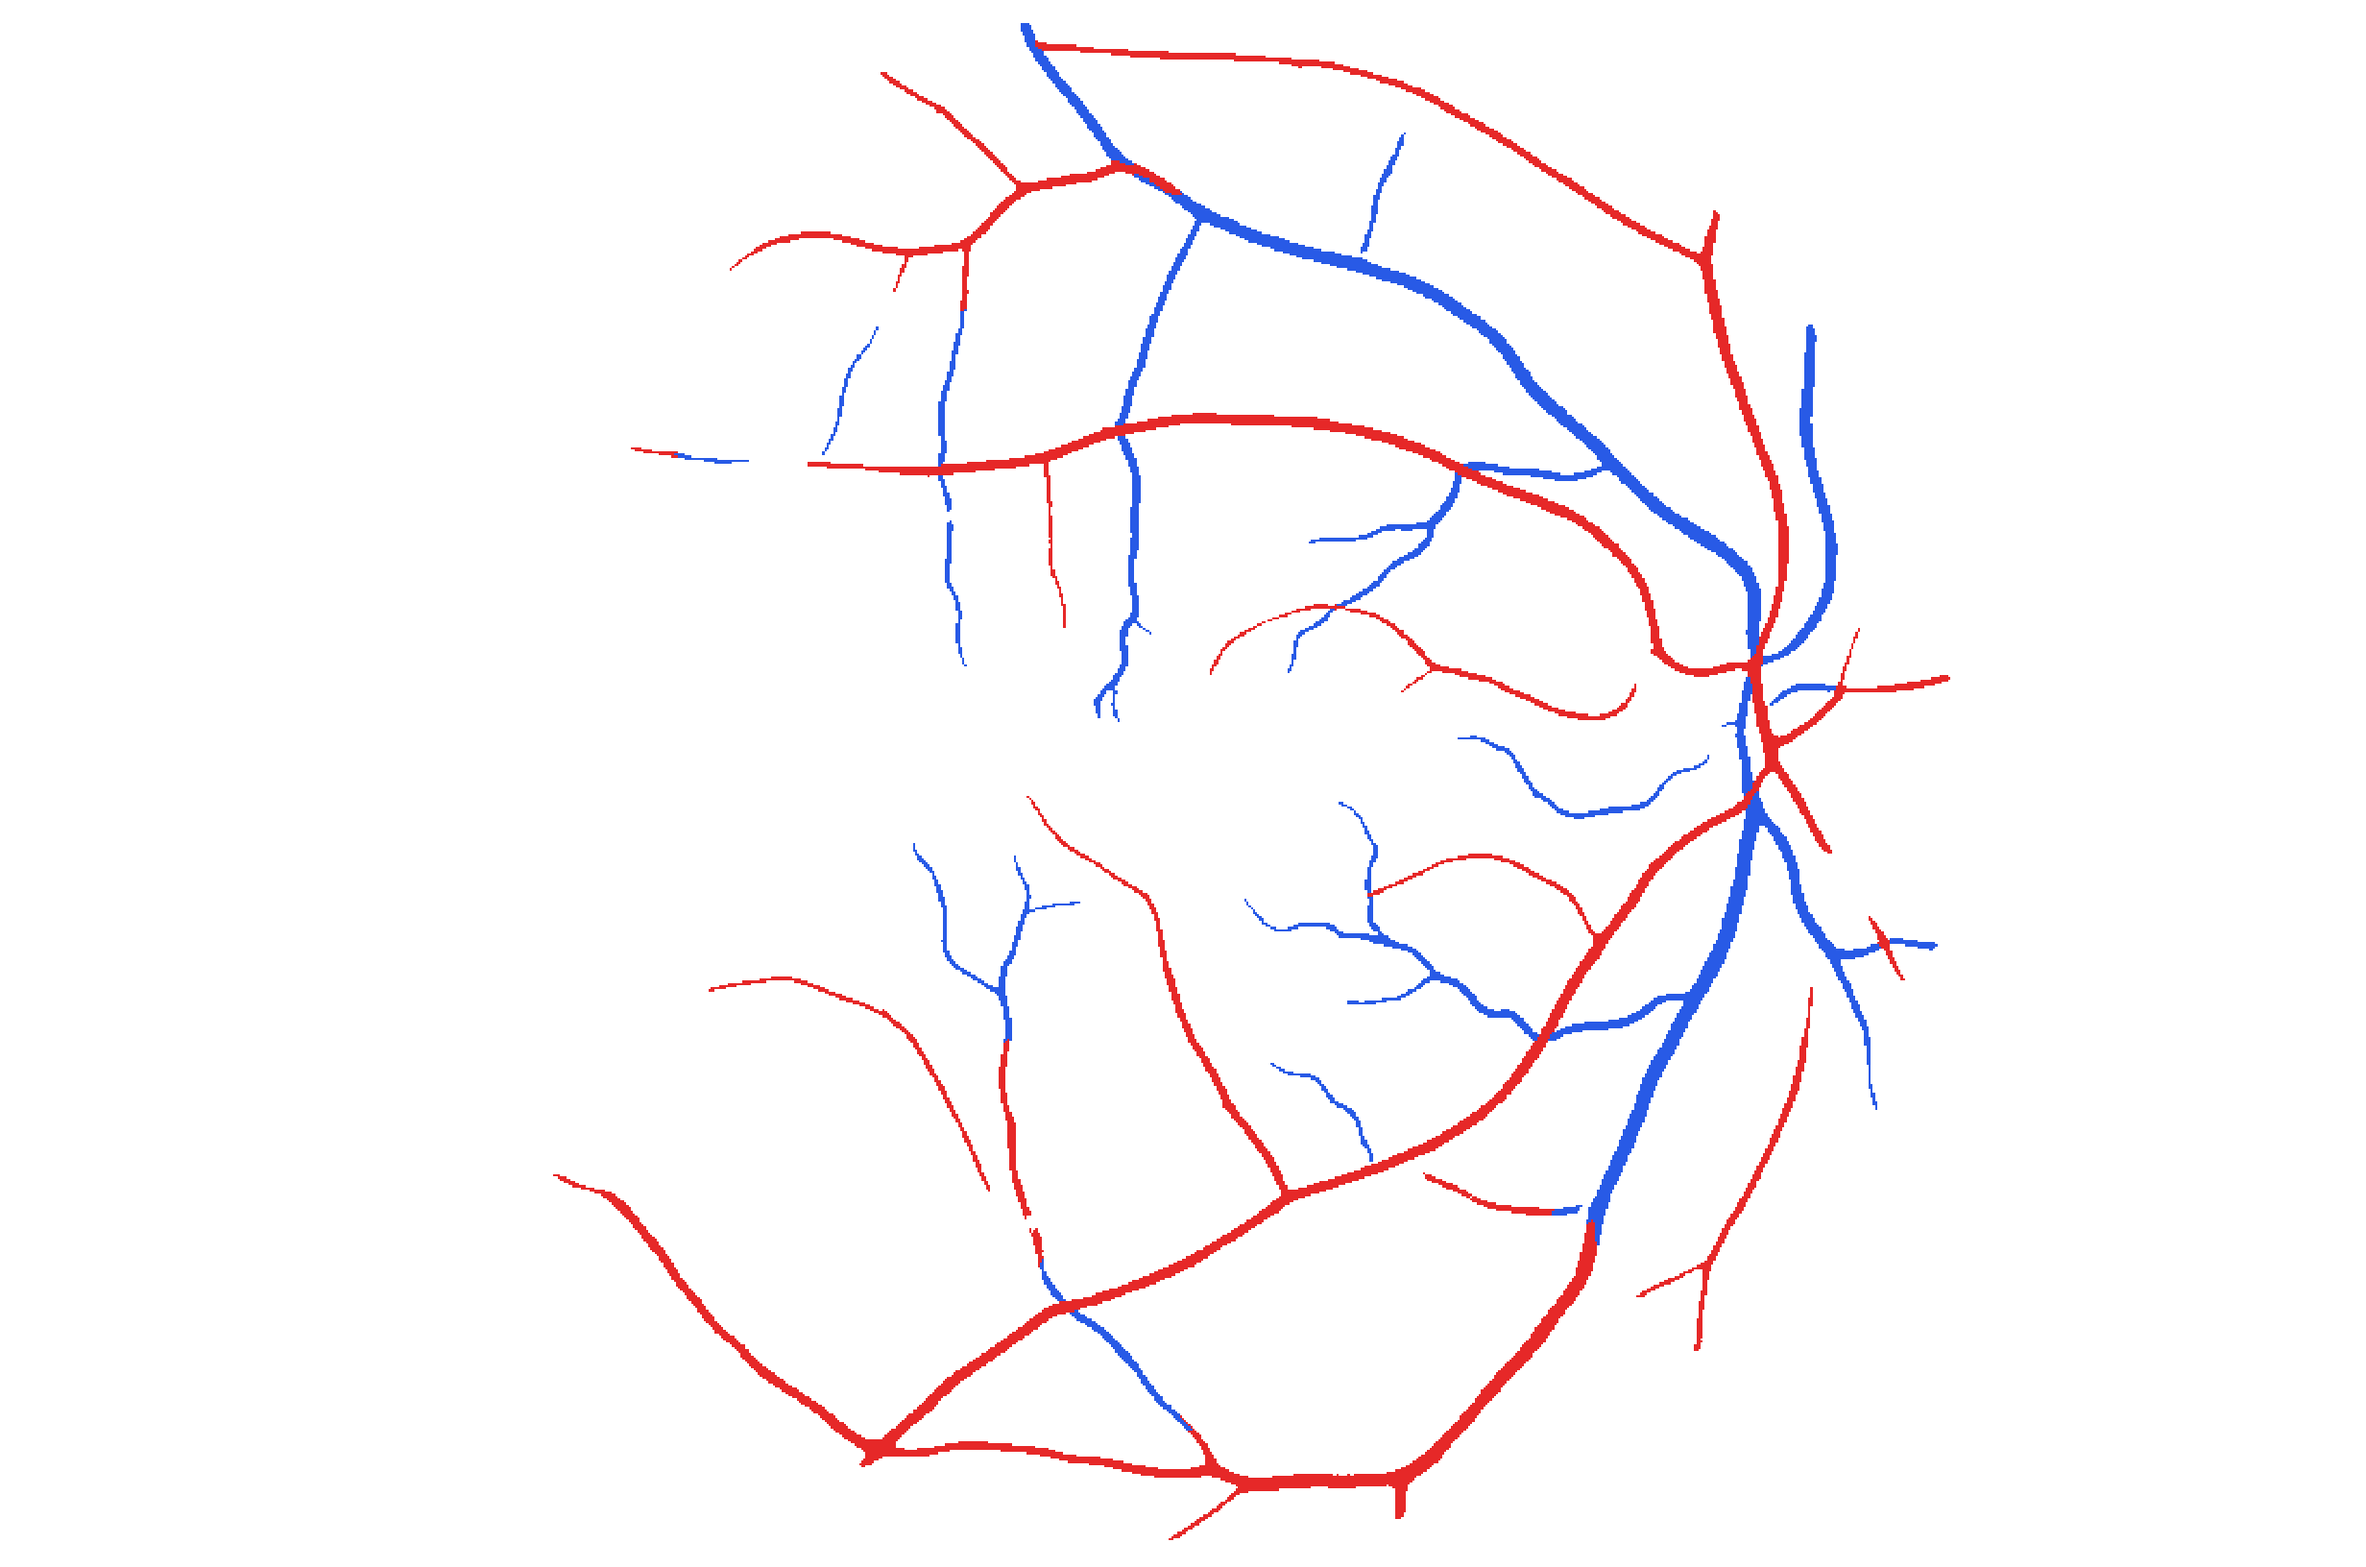
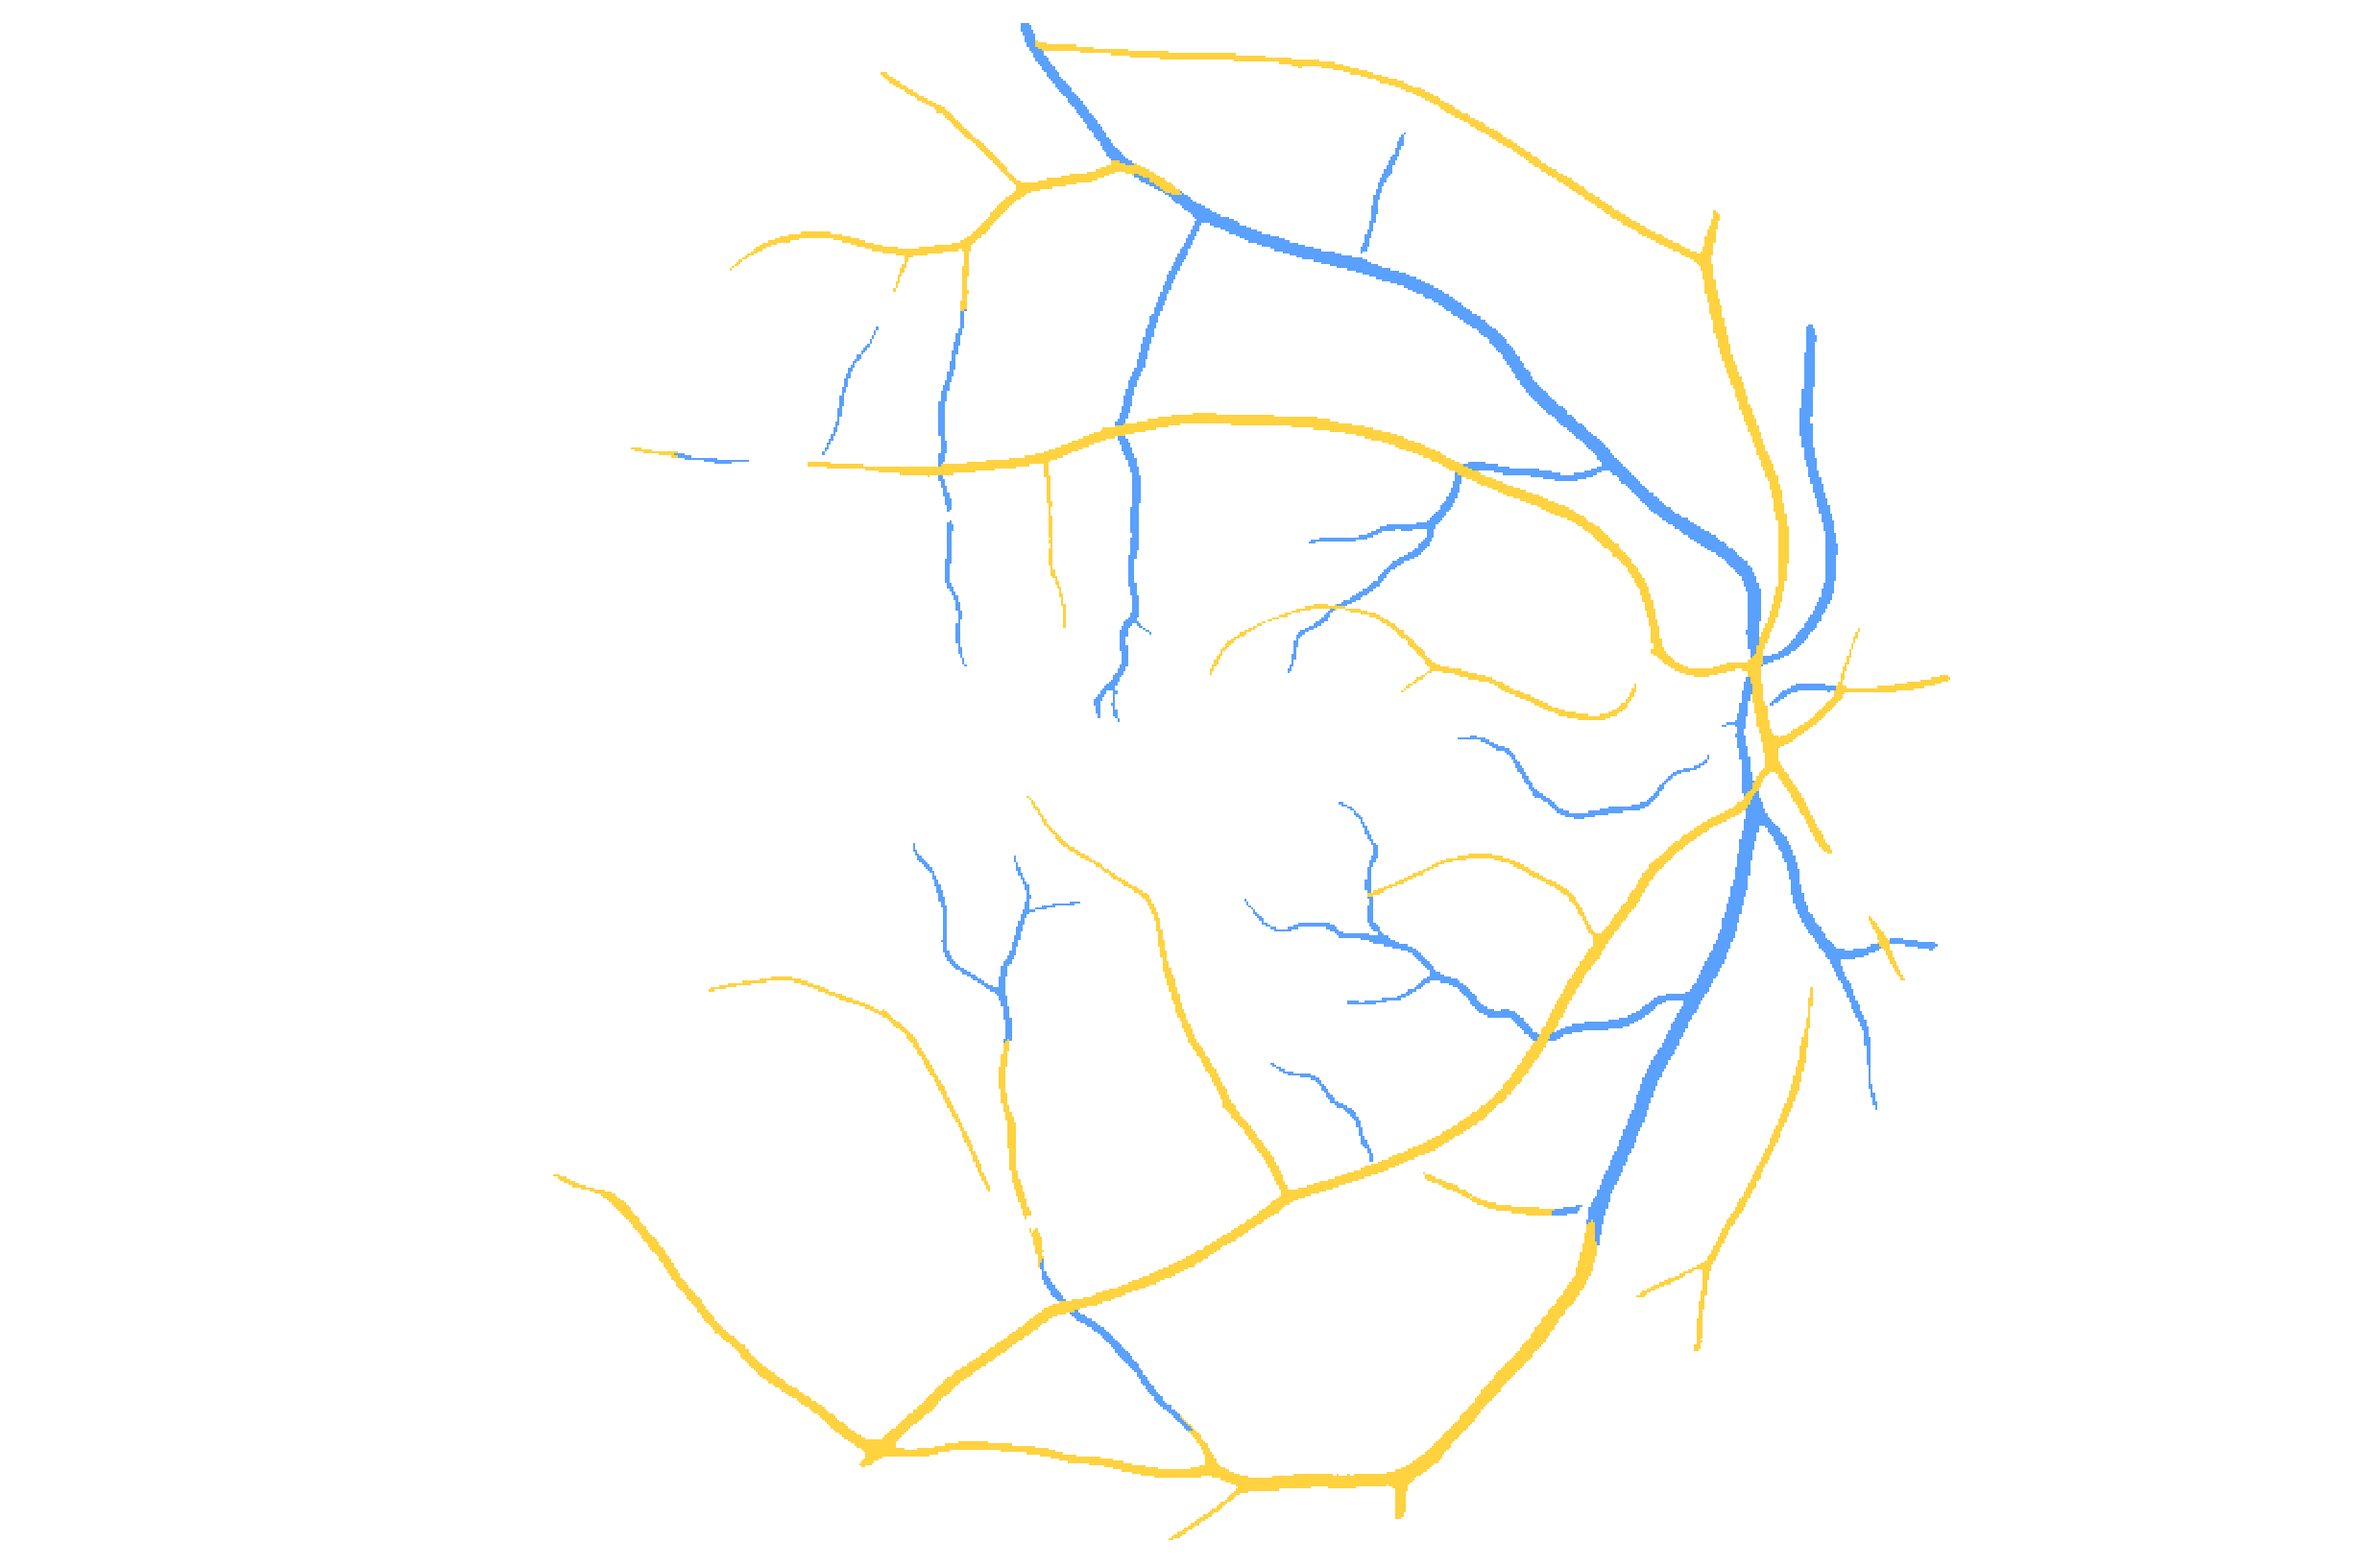
fix(api): colour-blind-safe artery/vein overlay colours (yellow/sky blue), demo cache rebuilt

diff --git a/app/api/vision/segment.py b/app/api/vision/segment.py
@@ -19,7 +19,7 @@ import numpy as np
 
 AUTOMORPH = Path(__file__).resolve().parent / "automorph"
 NAME = "img.png"
-COLOURS = {"vessel": (255, 220, 0), "artery": (230, 40, 40), "vein": (40, 90, 230), "disc": (0, 230, 120)}
+COLOURS = {"vessel": (255, 220, 0), "artery": (255, 210, 63), "vein": (90, 160, 255), "disc": (0, 230, 120)}
 
 
 @dataclass
